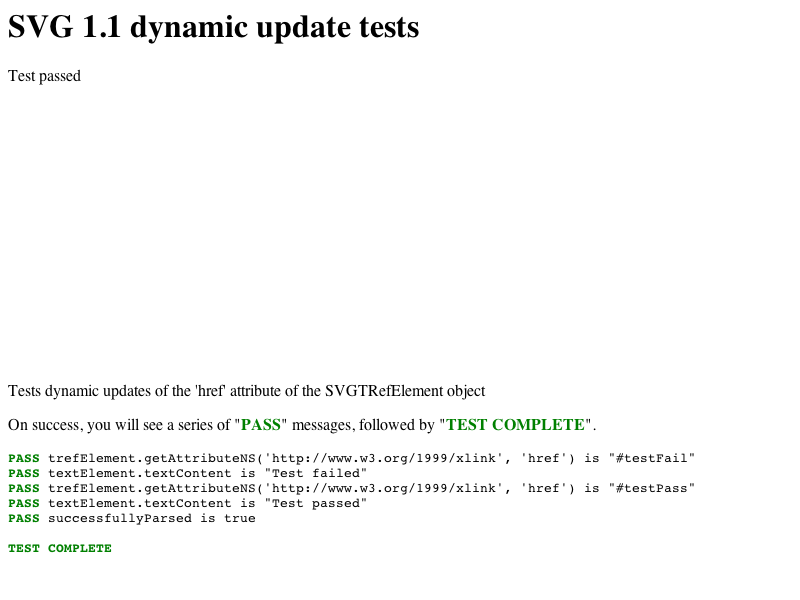
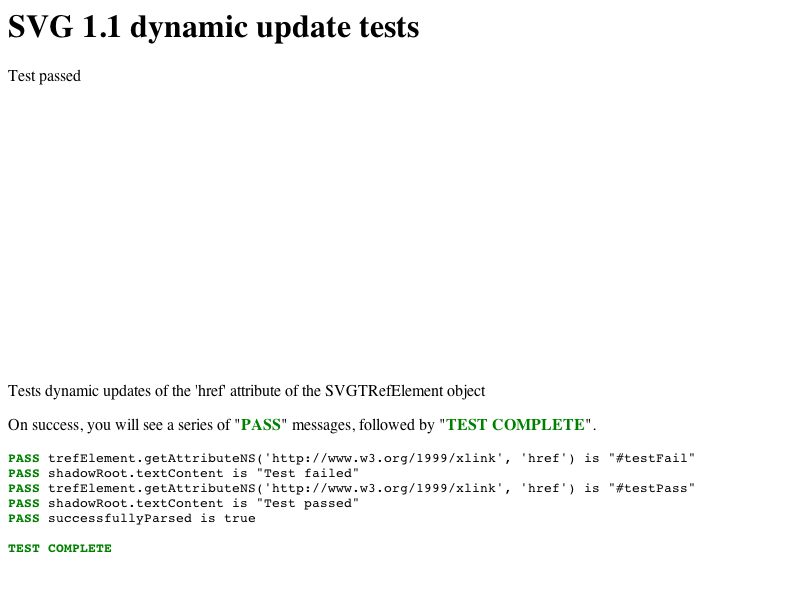
2011-07-23  Rob Buis  <rbuis@rim.com>
Freed SVGTRefElement used in SVGStyledElement::buildPendingResourcesIfNeeded
        https://bugs.webkit.org/show_bug.cgi?id=64758

        Reviewed by Nikolas Zimmermann.

        Fix the crash by storing referenced content inside a shadow tree. This way removing child nodes of
        the <tref> does not remove the referenced content.

        * dom/Text.cpp:
        (WebCore::Text::recalcStyle):
        * dom/Text.h:
        * svg/SVGTRefElement.cpp:
        (WebCore::SVGShadowText::create):
        (WebCore::SVGShadowText::SVGShadowText):
        (WebCore::SVGShadowText::createRenderer):
        (WebCore::SVGShadowText::recalcStyle):
        (WebCore::SVGTRefElement::updateReferencedText):
        (WebCore::SVGTRefElement::childShouldCreateRenderer):

Identifier: 80815@main
git-svn-id: https://svn.webkit.org/repository/webkit/trunk@91637 268f45cc-cd09-0410-ab3c-d52691b4dbfc

Changed region(s): [[0.0625, 0.78, 0.4688, 0.87], [0.375, 0.84, 0.4062, 0.87]]

diff --git a/LayoutTests/svg/dynamic-updates/script-tests/SVGTRefElement-dom-href-attr.js b/LayoutTests/svg/dynamic-updates/script-tests/SVGTRefElement-dom-href-attr.js
@@ -26,12 +26,18 @@ trefElement.setAttributeNS(xlinkNS, "xlink:href", "#testFail");
 textElement.appendChild(trefElement);    
 
 shouldBeEqualToString("trefElement.getAttributeNS('" + xlinkNS + "', 'href')", "#testFail");
-shouldBeEqualToString("textElement.textContent", "Test failed");
+if (window.internals) {
+    var shadowRoot = internals.shadowRoot(trefElement);
+    shouldBeEqualToString("shadowRoot.textContent", "Test failed");
+}
 
 function executeTest() {
     trefElement.setAttributeNS(xlinkNS, "xlink:href", "#testPass");
     shouldBeEqualToString("trefElement.getAttributeNS('" + xlinkNS + "', 'href')", "#testPass");
-    shouldBeEqualToString("textElement.textContent", "Test passed");
+    if (window.internals) {
+        var shadowRoot = internals.shadowRoot(trefElement);
+        shouldBeEqualToString("shadowRoot.textContent", "Test passed");
+    }
 
     completeTest();
 }

diff --git a/Source/WebCore/svg/SVGTRefElement.cpp b/Source/WebCore/svg/SVGTRefElement.cpp
@@ -28,7 +28,9 @@
 #include "EventNames.h"
 #include "MutationEvent.h"
 #include "RenderSVGInline.h"
+#include "RenderSVGInlineText.h"
 #include "RenderSVGResource.h"
+#include "ShadowRoot.h"
 #include "SVGDocument.h"
 #include "SVGElementInstance.h"
 #include "SVGNames.h"
@@ -105,6 +107,35 @@ void SubtreeModificationEventListener::handleEvent(ScriptExecutionContext*, Even
         m_trefElement->updateReferencedText();
 }
 
+class SVGShadowText : public Text {
+public:
+    static PassRefPtr<SVGShadowText> create(Document* document, const String& data)
+    {
+        return adoptRef(new SVGShadowText(document, data));
+    }
+private:
+    SVGShadowText(Document* document, const String& data)
+        : Text(document, data)
+    {
+    }
+    virtual RenderObject* createRenderer(RenderArena*, RenderStyle*);
+    virtual void recalcStyle(StyleChange);
+};
+
+RenderObject* SVGShadowText::createRenderer(RenderArena* arena, RenderStyle*)
+{
+    return new (arena) RenderSVGInlineText(this, dataImpl());
+}
+
+void SVGShadowText::recalcStyle(StyleChange change)
+{
+    if (change != NoChange && parentNode()->shadowHost()) {
+        if (renderer())
+            renderer()->setStyle(parentNode()->shadowHost()->renderer()->style());
+    }
+    Text::recalcStyle(change);
+}
+
 void SVGTRefElement::updateReferencedText()
 {
     Element* target = treeScope()->getElementById(SVGURIReference::getTarget(href()));
@@ -113,7 +144,10 @@ void SVGTRefElement::updateReferencedText()
     if (target->parentNode())
         textContent = target->textContent();
     ExceptionCode ignore = 0;
-    setTextContent(textContent, ignore);
+    if (!ensureShadowRoot()->firstChild())
+        shadowRoot()->appendChild(SVGShadowText::create(document(), textContent), ignore);
+    else
+        shadowRoot()->firstChild()->setTextContent(textContent, ignore);
 }
 
 bool SVGTRefElement::isSupportedAttribute(const QualifiedName& attrName)
@@ -177,10 +211,7 @@ RenderObject* SVGTRefElement::createRenderer(RenderArena* arena, RenderStyle*)
 
 bool SVGTRefElement::childShouldCreateRenderer(Node* child) const
 {
-    if (child->isTextNode())
-        return true;
-
-    return false;
+    return child->isInShadowTree();
 }
 
 bool SVGTRefElement::rendererIsNeeded(const NodeRenderingContext& context)

diff --git a/Source/WebCore/dom/Text.h b/Source/WebCore/dom/Text.h
@@ -51,13 +51,14 @@ protected:
     {
     }
 
+    virtual void recalcStyle(StyleChange = NoChange);
+
 private:
     virtual String nodeName() const;
     virtual NodeType nodeType() const;
     virtual PassRefPtr<Node> cloneNode(bool deep);
     virtual bool rendererIsNeeded(const NodeRenderingContext&);
     virtual RenderObject* createRenderer(RenderArena*, RenderStyle*);
-    virtual void recalcStyle(StyleChange = NoChange);
     virtual bool childTypeAllowed(NodeType) const;
 
     virtual PassRefPtr<Text> virtualCreate(const String&);

diff --git a/Source/WebCore/dom/Text.cpp b/Source/WebCore/dom/Text.cpp
@@ -259,7 +259,7 @@ void Text::attach()
 
 void Text::recalcStyle(StyleChange change)
 {
-    if (change != NoChange && parentNode()) {
+    if (change != NoChange && parentNode() && parentNode()->renderer()) {
         if (renderer())
             renderer()->setStyle(parentNode()->renderer()->style());
     }
